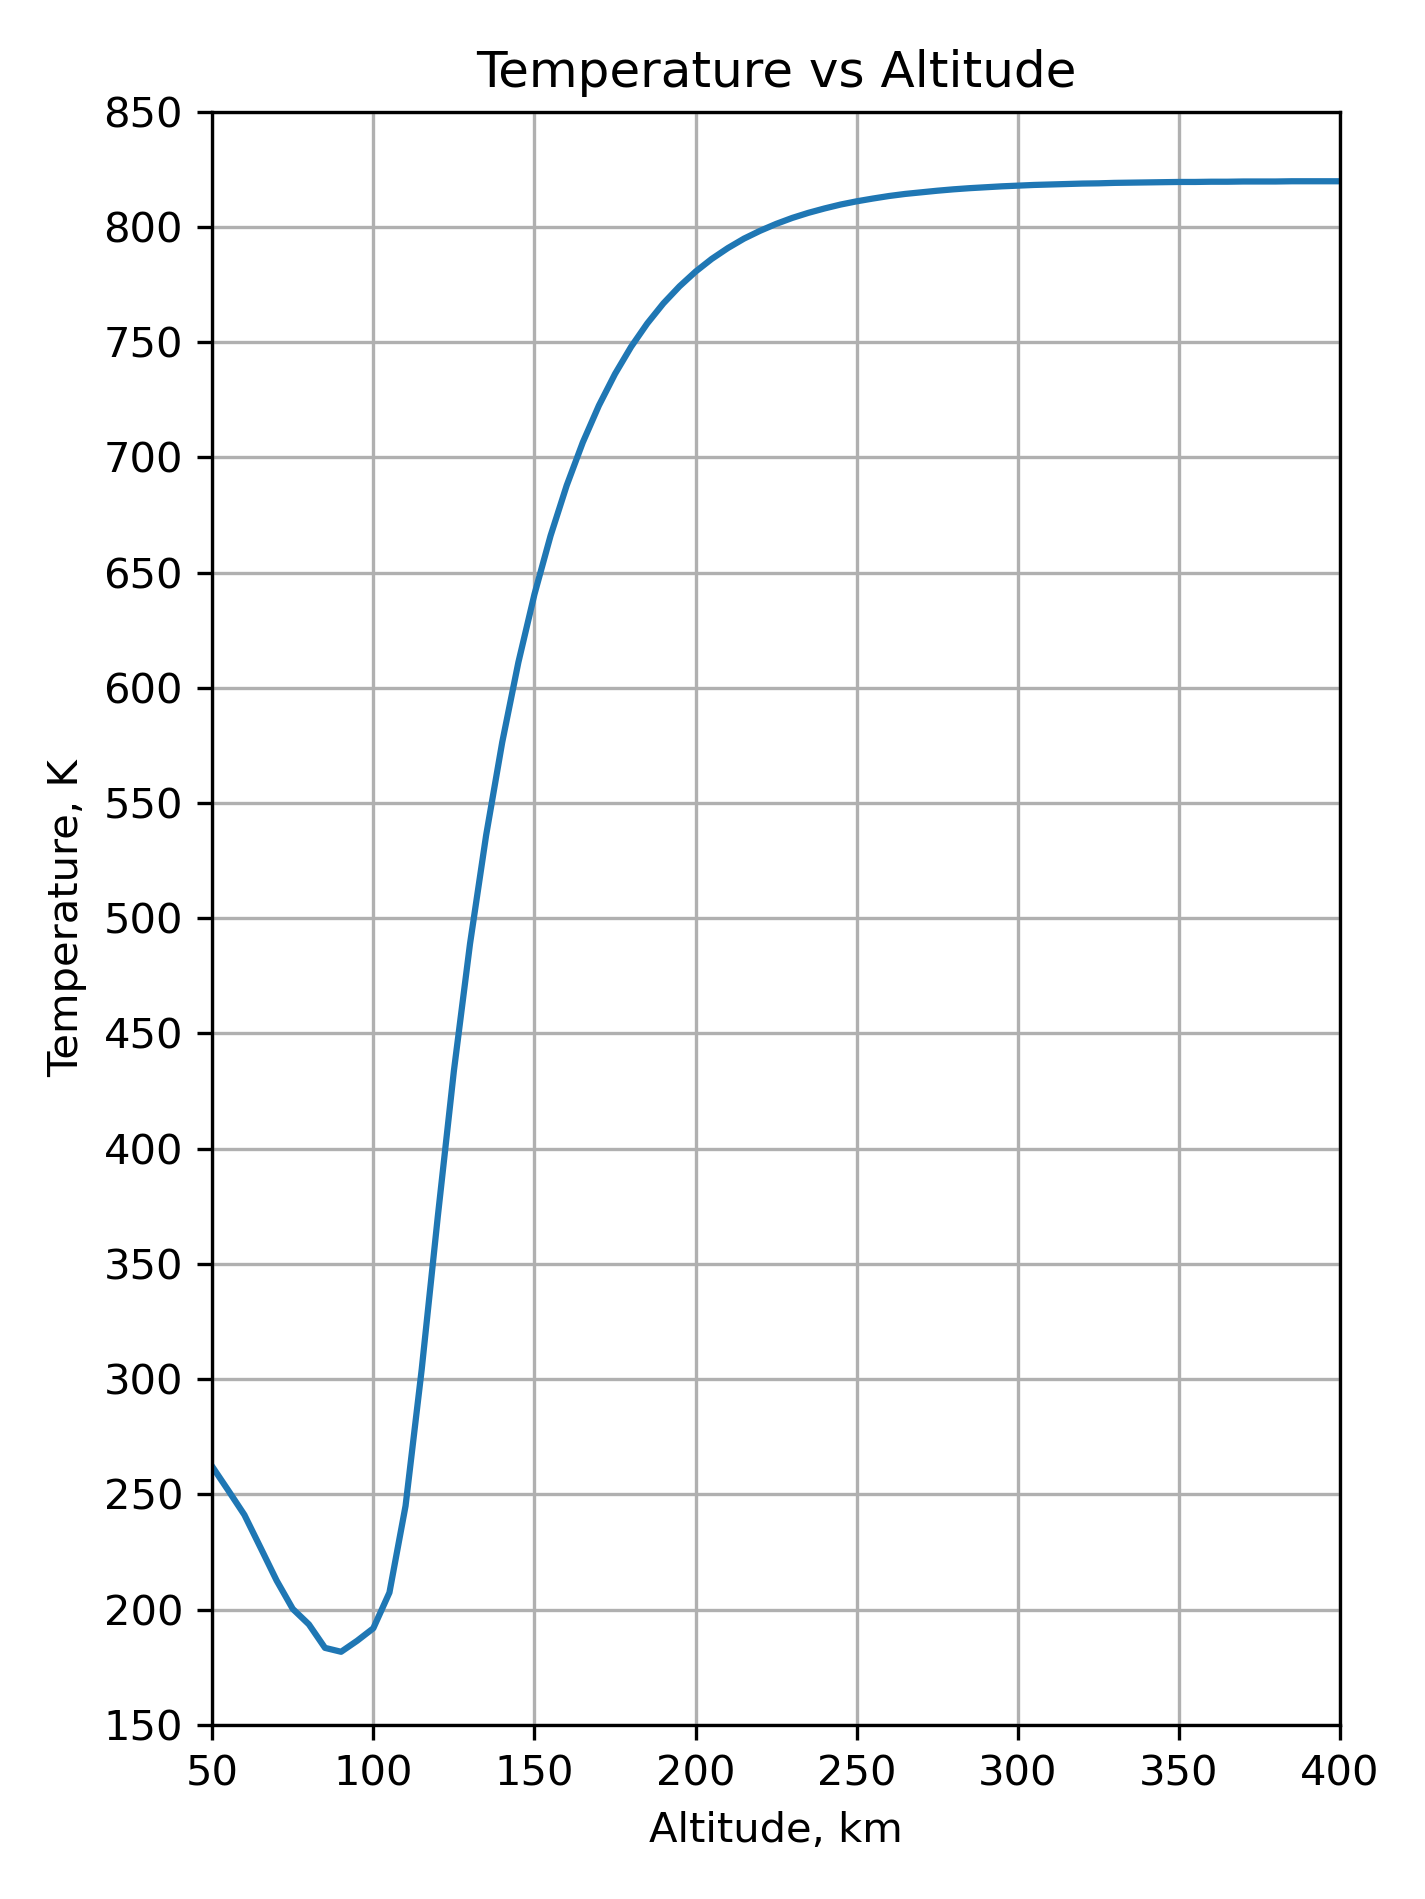
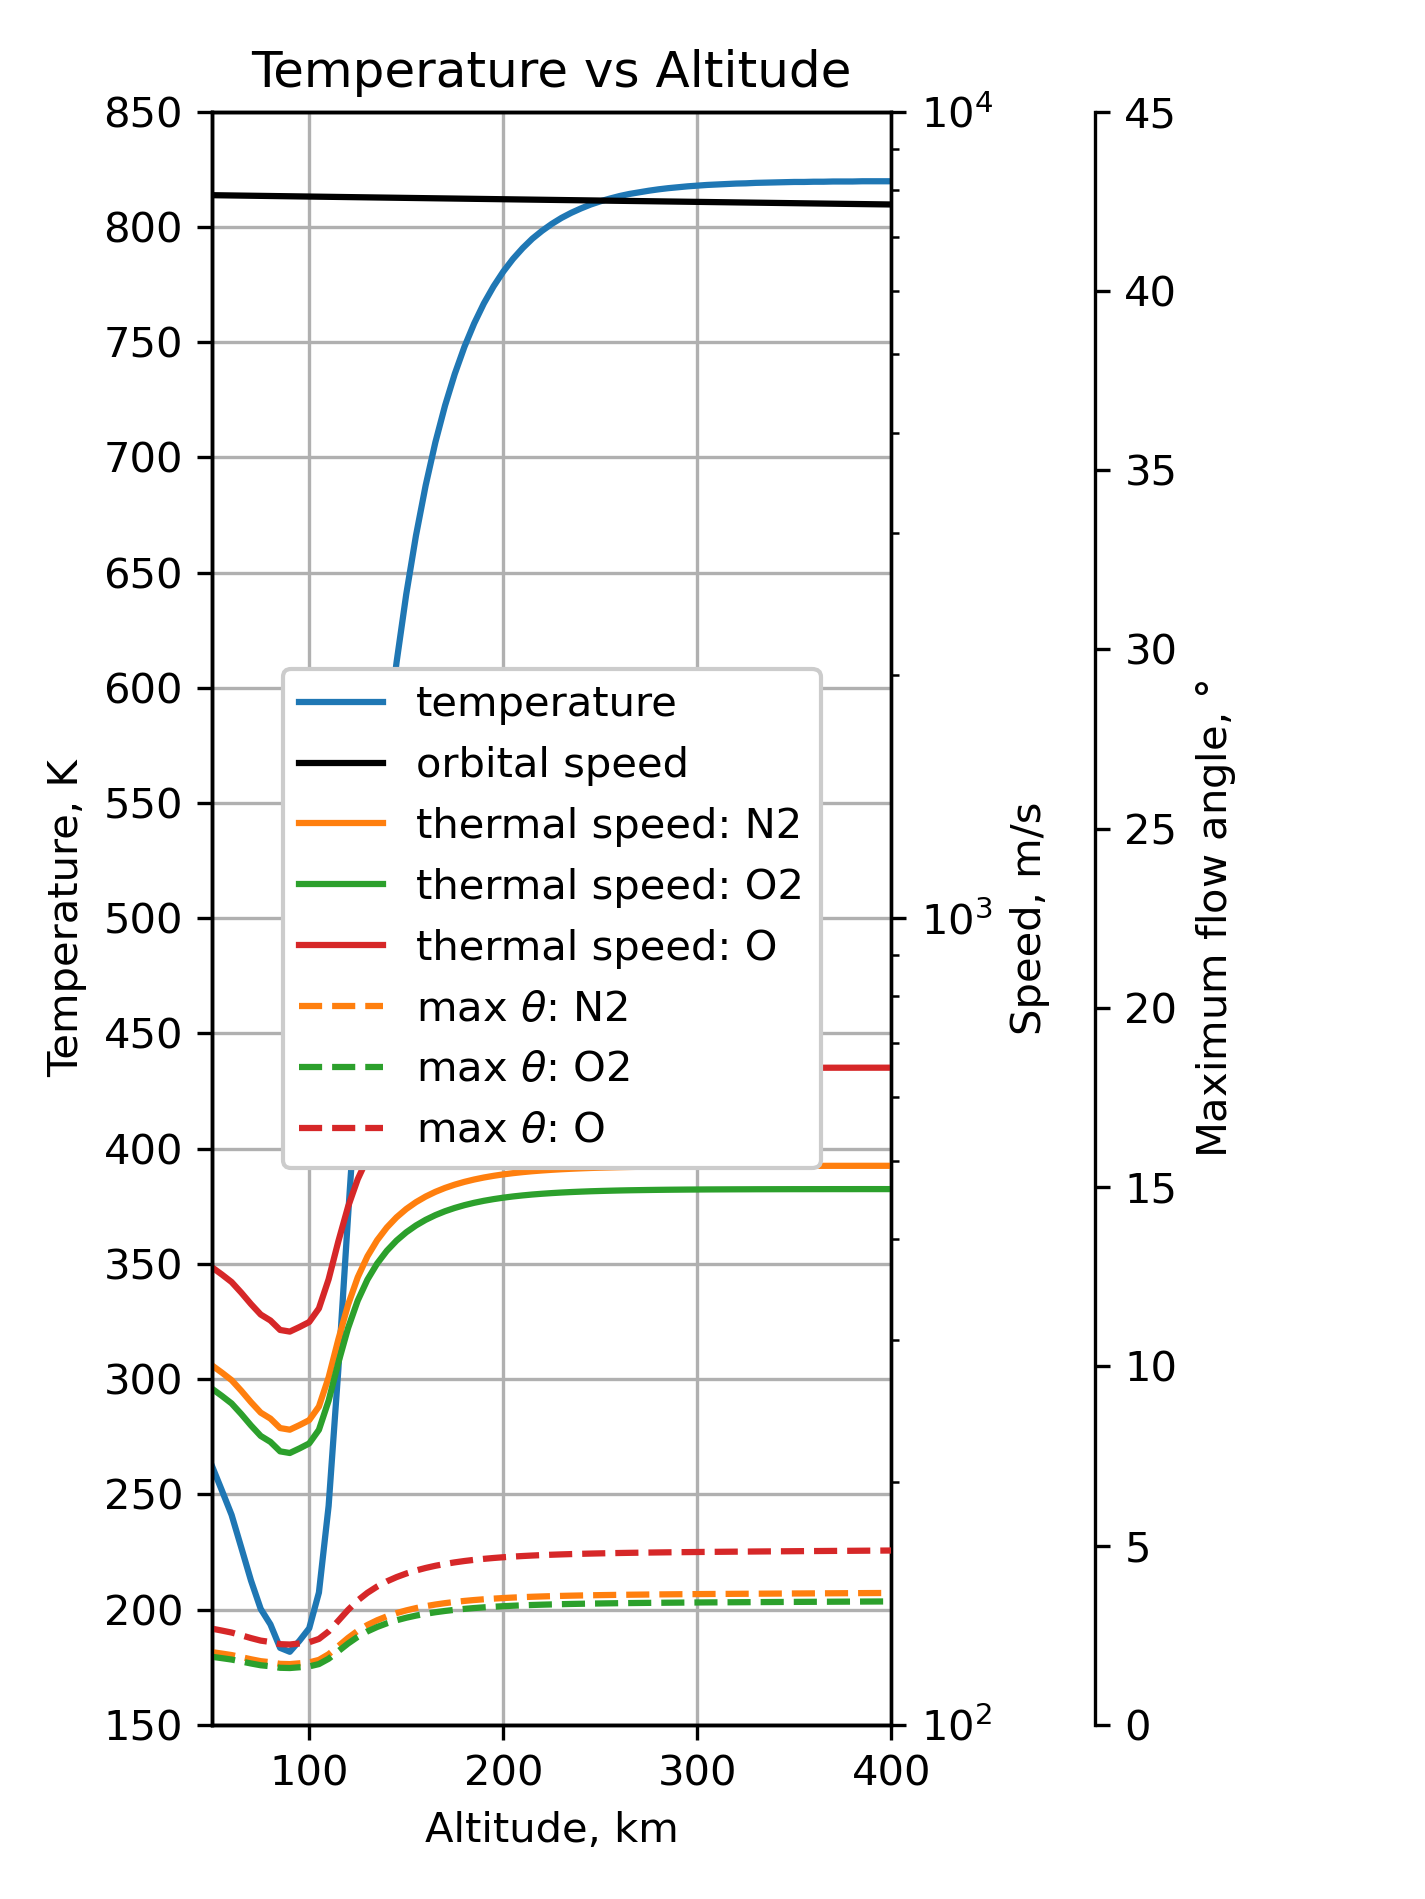
Update

diff --git a/Atmospheric_parameters_calculation.py b/Atmospheric_parameters_calculation.py
@@ -97,6 +97,34 @@ fig.savefig('Density vs Altitude',dpi=300)
 plt.show()
 
 fig, ax = plt.subplots(figsize=figure_size)
+l1 = ax.semilogy(H,n_total,'-',label='total')
+l2 = ax.semilogy(H,n_N2,'--',label='N2')
+l3 = ax.semilogy(H,n_O2,'--',label='O2')
+#ax.semilogy(H,n_N,'--',label='N')
+l4 = ax.semilogy(H,n_O,'--',label='O')
+#ax.semilogy(H,n_Ar,'--',label='Ar')
+#ax.semilogy(H,n_He,'--',label='He')
+#ax.semilogy(H,n_H,'--',label='H')
+ax.axhspan(1e14,1e15,color='k',alpha=0.2,label='WVC operation limit')
+ax.set_xlim(50,250)
+ax.set_xlabel('Altitude, km')
+ax.set_ylim(1e14,1e23)
+ax.set_yticks(np.logspace(14,23,10))
+ax.set_ylabel('Number density, m$^-$$^3$')
+ax2 = ax.twinx()
+l5 = ax2.plot(H,v_sc,'k',label='orbital speed')
+ax2.set_ylim(7700,7900)
+ax2.set_ylabel('Orbital Velocity, m/s ')
+ls = l1+l2+l3+l4+l5
+labs = [l.get_label() for l in ls]
+ax2.legend(ls,labs,framealpha=1.0)
+ax.grid()
+ax.set_title('Density vs Altitude')
+fig.tight_layout()
+fig.savefig('Density vs Altitude (Closeup)',dpi=300)
+plt.show()
+
+fig, ax = plt.subplots(figsize=figure_size)
 ax.semilogy(H,P)
 ax.set_xlim(50,400)
 ax.set_xlabel('Altitude, km')
@@ -116,20 +144,43 @@ fig.tight_layout()
 fig.savefig('Pressure vs Altitude',dpi=300)
 plt.show()
 
-fig, ax = plt.subplots(figsize=figure_size)
-ax.plot(H,T)
+#%%
+M = np.array([14.0067*2, 15.999*2, 15.999]) # molar mass for N2, O2, O [amu]
+m = M/1000/N_A                              # mass for N2, O2, O [kg]
+fig, ax = plt.subplots(figsize=(9.5,6.33))
+l1 = ax.plot(H,T,label='temperature',linewidth=3.0)
 ax.set_xlim(50,400)
 ax.set_xlabel('Altitude, km')
 ax.set_ylim(150,850)
 ax.set_yticks(np.linspace(150,850,15))
 ax.set_ylabel('Temperature, K')
+ax2 = ax.twinx()
+l2 = ax2.semilogy(H,v_sc,'k',label='orbital speed')
+ax2.plot([0,0],[0,0])
+l3 = ax2.semilogy(H,f.v_th(T,m[0]),label='thermal speed: N2')
+l4 = ax2.semilogy(H,f.v_th(T,m[1]),label='thermal speed: O2')
+l5 = ax2.semilogy(H,f.v_th(T,m[2]),label='thermal speed: O')
+ax2.set_ylim(100,10000)
+ax2.set_ylabel('Speed, m/s')
+ax3 = ax.twinx()
+ax3.plot([0,0],[0,0])
+l6 = ax3.plot(H,np.arctan(f.v_th(T,m[0])/v_sc)*180/np.pi,'--',label='max $\\theta$: N2')
+l7 = ax3.plot(H,np.arctan(f.v_th(T,m[1])/v_sc)*180/np.pi,'--',label='max $\\theta$: O2')
+l8 = ax3.plot(H,np.arctan(f.v_th(T,m[2])/v_sc)*180/np.pi,'--',label='max $\\theta$: O')
+ax3.set_ylim(0,45)
+ax3.set_ylabel('Maximum flow angle, $\degree$')
+ax3.spines["right"].set_position(("axes",1.25))
+
+ls = l1+l2+l3+l4+l5+l6+l7+l8
+labs = [l.get_label() for l in ls]
+ax3.legend(ls,labs,framealpha=1.0,loc='lower left', bbox_to_anchor=(1.45, 0.65))
 ax.grid()
-ax.set_title('Temperature vs Altitude')
+ax.set_title('Speed, Temperature vs Altitude')
 fig.tight_layout()
-fig.savefig('Temperature vs Altitude',dpi=300)
+fig.savefig('Speed, Temperature vs Altitude',dpi=300)
 plt.show()
 #%%
-h = 105 # km
+h = 225 # km
 x = int(f.index_from_H(h,H))
 print('h       = {} km'.format(H[x]))
 print('v_sc    = {:.2f} m/s'.format(v_sc[x]))

diff --git a/functions.py b/functions.py
@@ -11,7 +11,7 @@ def load_NRLMSIS_data(filename):
     # Importing the .txt file
     with open(filename,'r') as f:
         lines = f.readlines()
-    print(lines[0])
+    #print(lines[0])
     #print(lines[1])
 
     # Converting the lines into rows
@@ -68,3 +68,16 @@ def index_from_H(h,H):
     ΔH = H[1]-H[0]
     x = (h-H[0])/ΔH
     return x
+
+def v_th(T,m):
+    '''
+    Output: 
+    v = thermal speed [m/s]
+    Input:
+    T = temperature [K]
+    m = mass [kg]
+    '''
+    import numpy as np
+    k_B = 1.380649e-23 # Boltzmann constant [J/K]
+    v = np.sqrt(k_B*T/m)
+    return v
